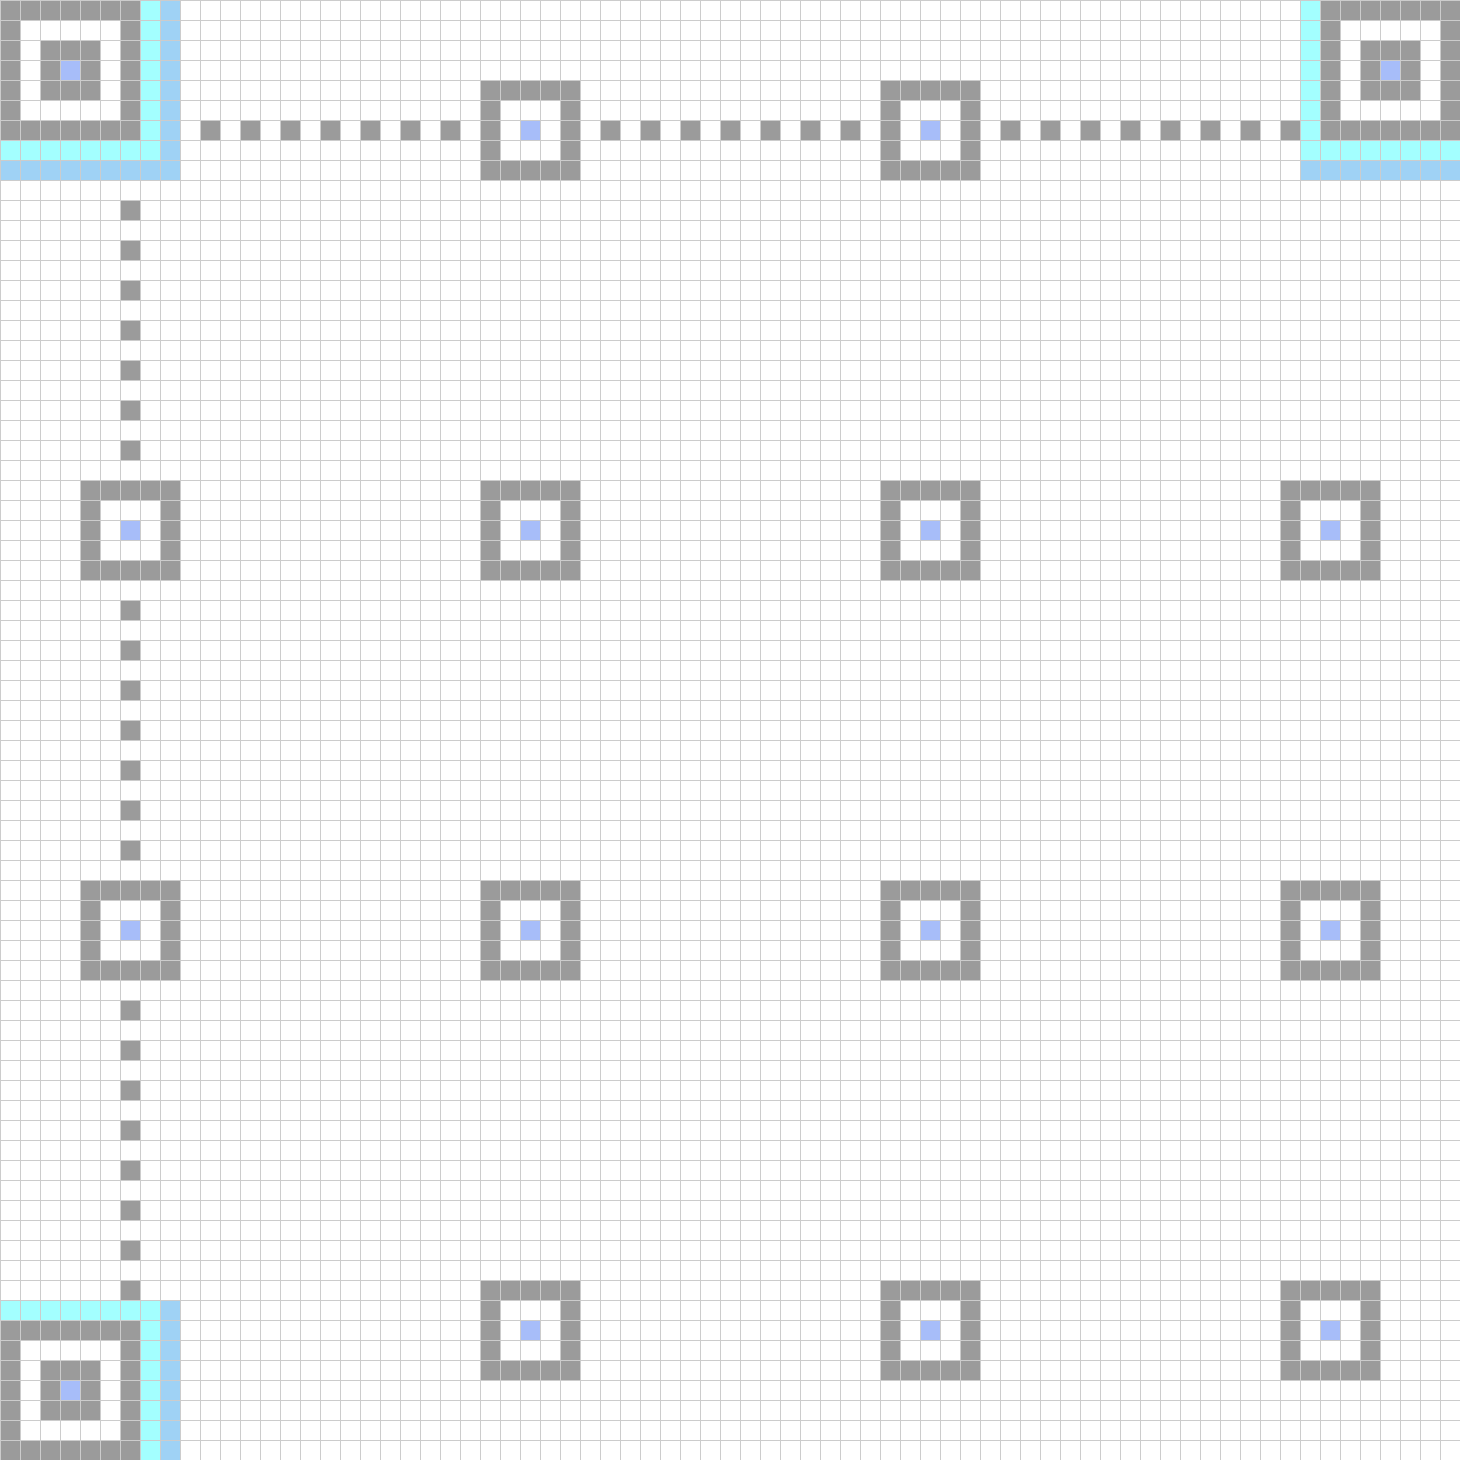
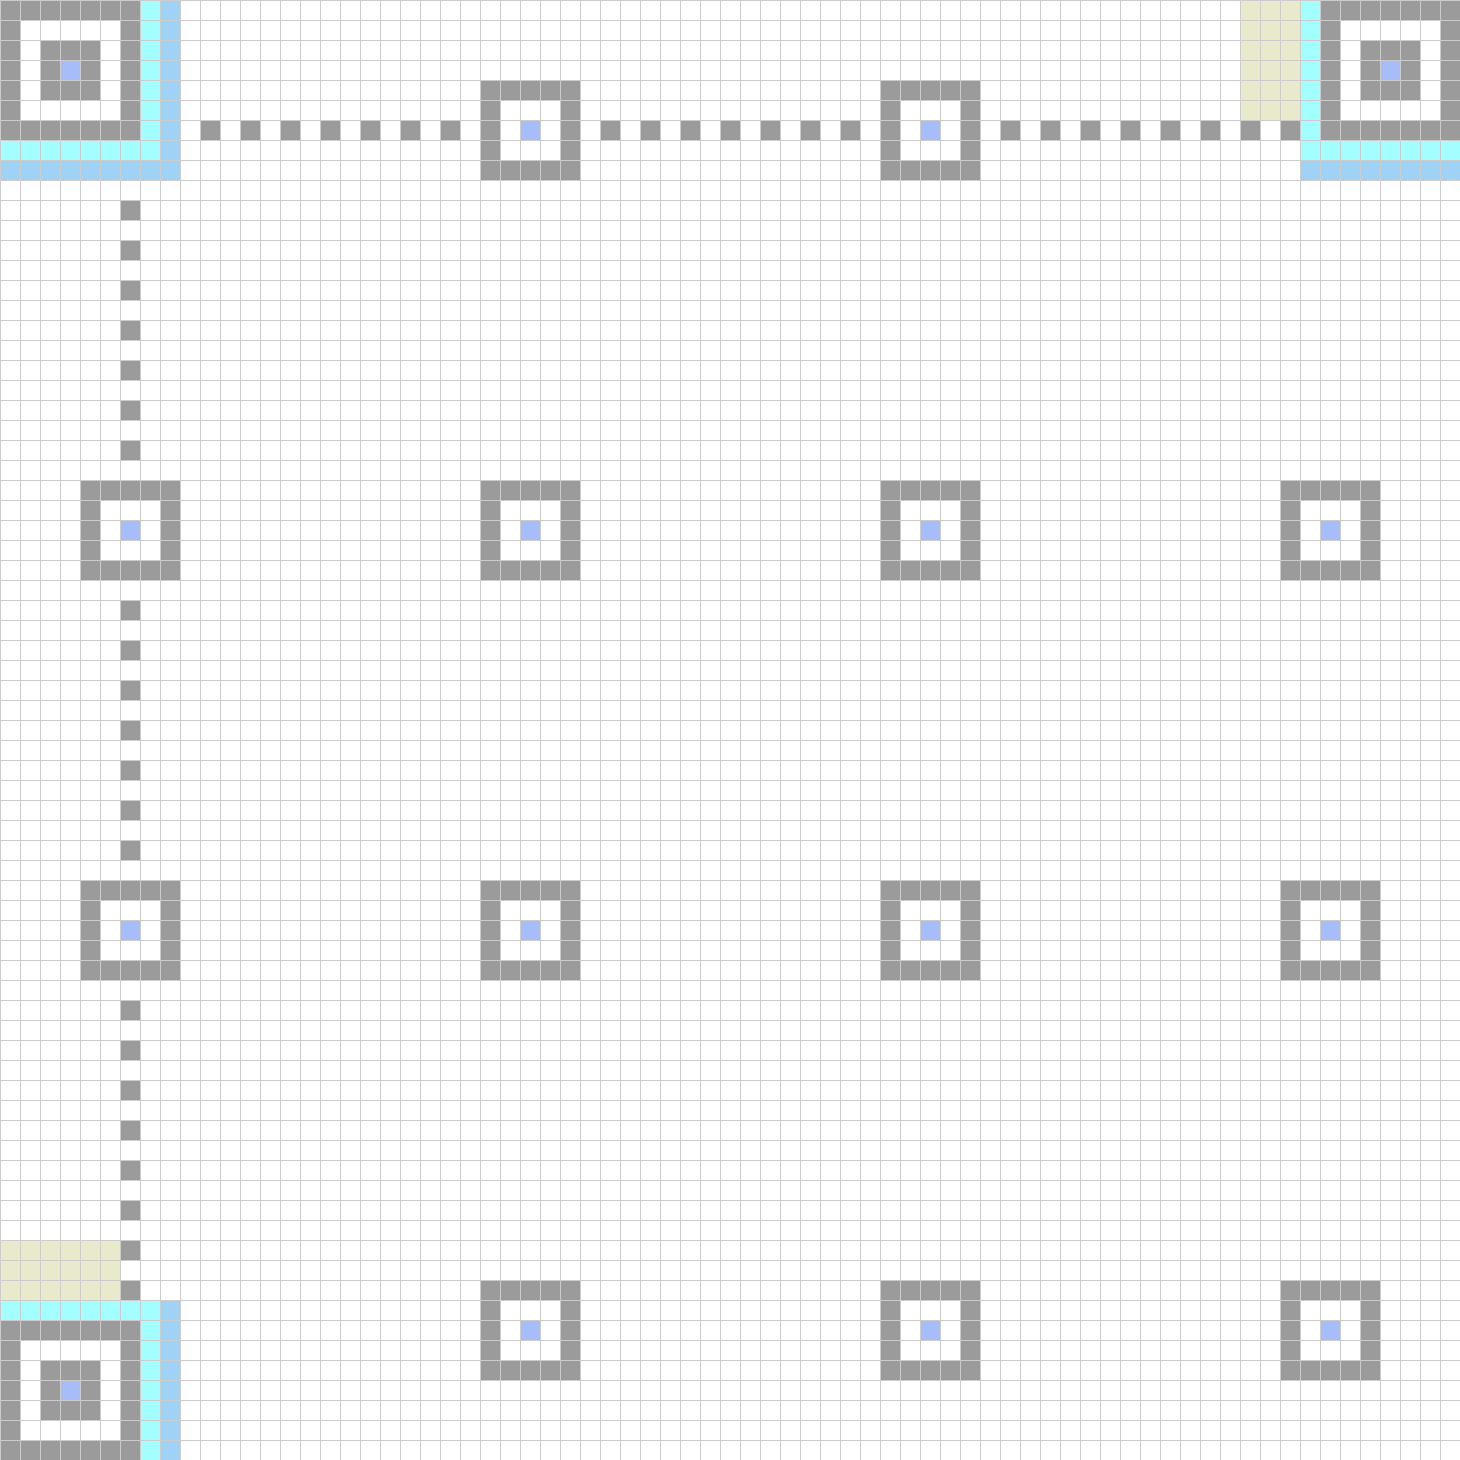
add reserve version information areas

Changed region(s): [[0.8322, 0.0, 0.8938, 0.0925], [0.0, 0.8322, 0.0925, 0.8938]]

diff --git a/src/main.rs b/src/main.rs
@@ -20,6 +20,7 @@ pub enum CellType {
     Separator,
     Timing,
     DarkModule,
+    VersionInformation,
     Format,
     Free,
     Message,
@@ -145,14 +146,46 @@ impl  QR {
         self.config.apply_dark_module(&mut self.body);
         self.config.reserve_format_areas(&mut self.body);
 
+        // version information area
         if self.config.version > 6 {
-            // version information area
+            self.config.apply_version_information_areas(&mut self.body);
         }
+
         println!("LENGTH IS {}, SIZE IS {}", self.body.len(), self.config.size);
     }
 }
 
 impl QROptions {
+    pub fn apply_version_information_areas(&self, body: &mut Vec<Cell>) {
+        let mut x = self.size - 11;
+        let mut y = 0;
+        let mut blocks = 6 * 3;
+        while blocks > 0 {
+            let indices: [usize; 2] = [
+                Point(x, y).idx(self.size),
+                Point(y, x).idx(self.size)
+            ];
+            for index in indices.into_iter() {
+                match body.get_mut(*index) {
+                    Some(cell) => {
+                        cell.module_type = CellType::VersionInformation;
+                        cell.color = Color { r: 200, g: 200, b: 123 };
+                    },
+                    None => {}
+                }
+
+            }
+
+            if y < 5 {
+                y += 1;
+            } else {
+                y = 0;
+                x += 1;
+            }
+            blocks -= 1;
+        }
+    }
+
     pub fn reserve_format_areas(&self, body: &mut Vec<Cell>) {
         let mut vertical = Point(0, 8);
         let mut horizontal = Point(8, 0);
